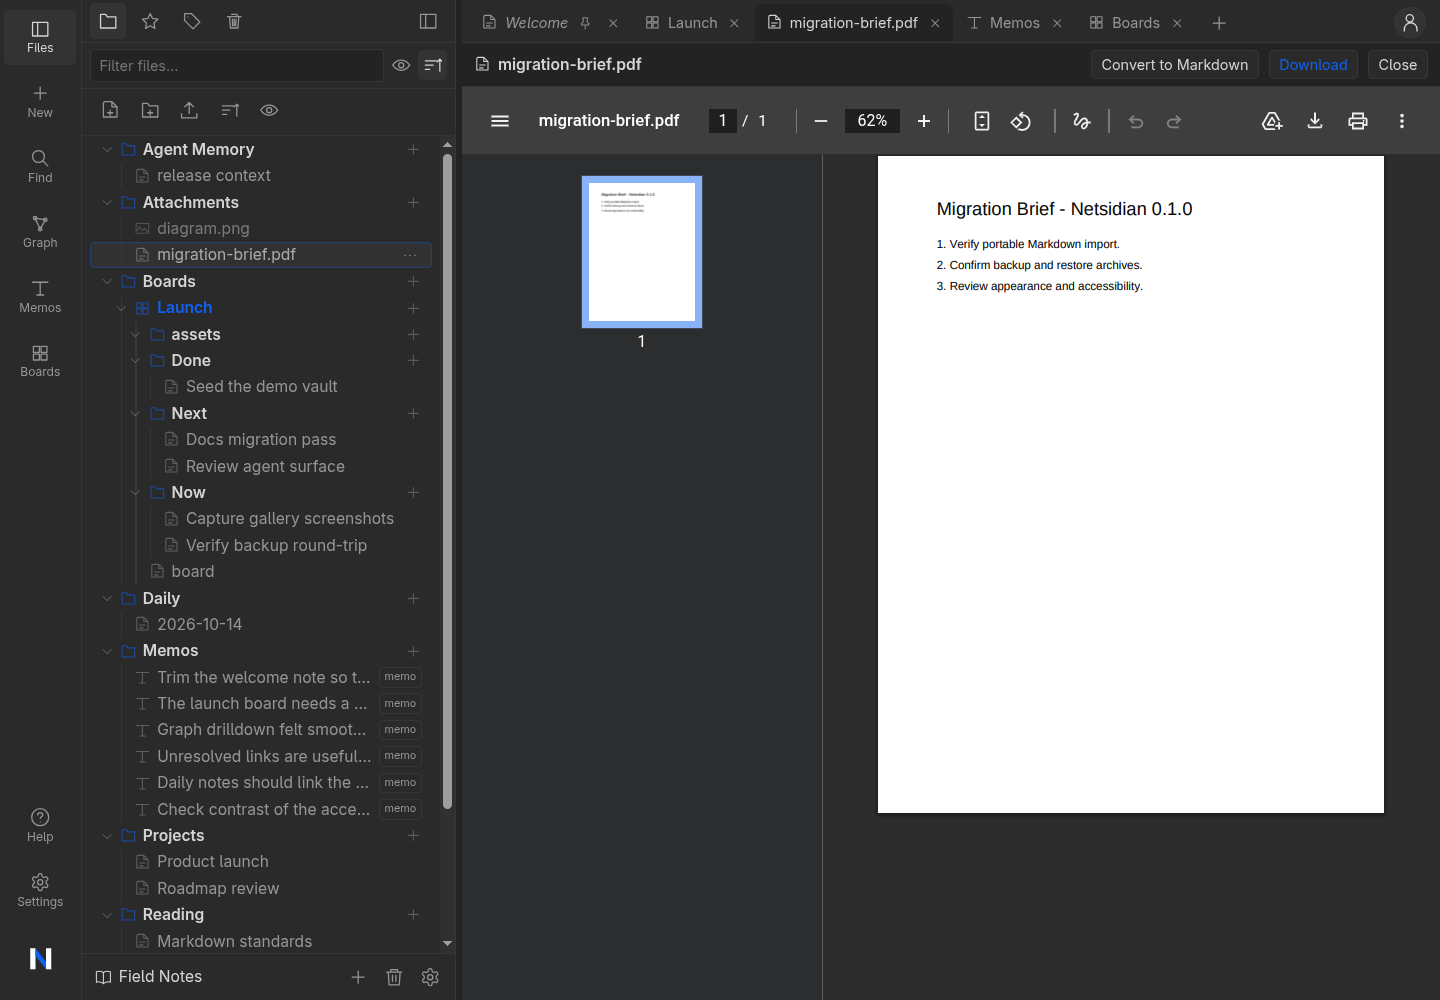
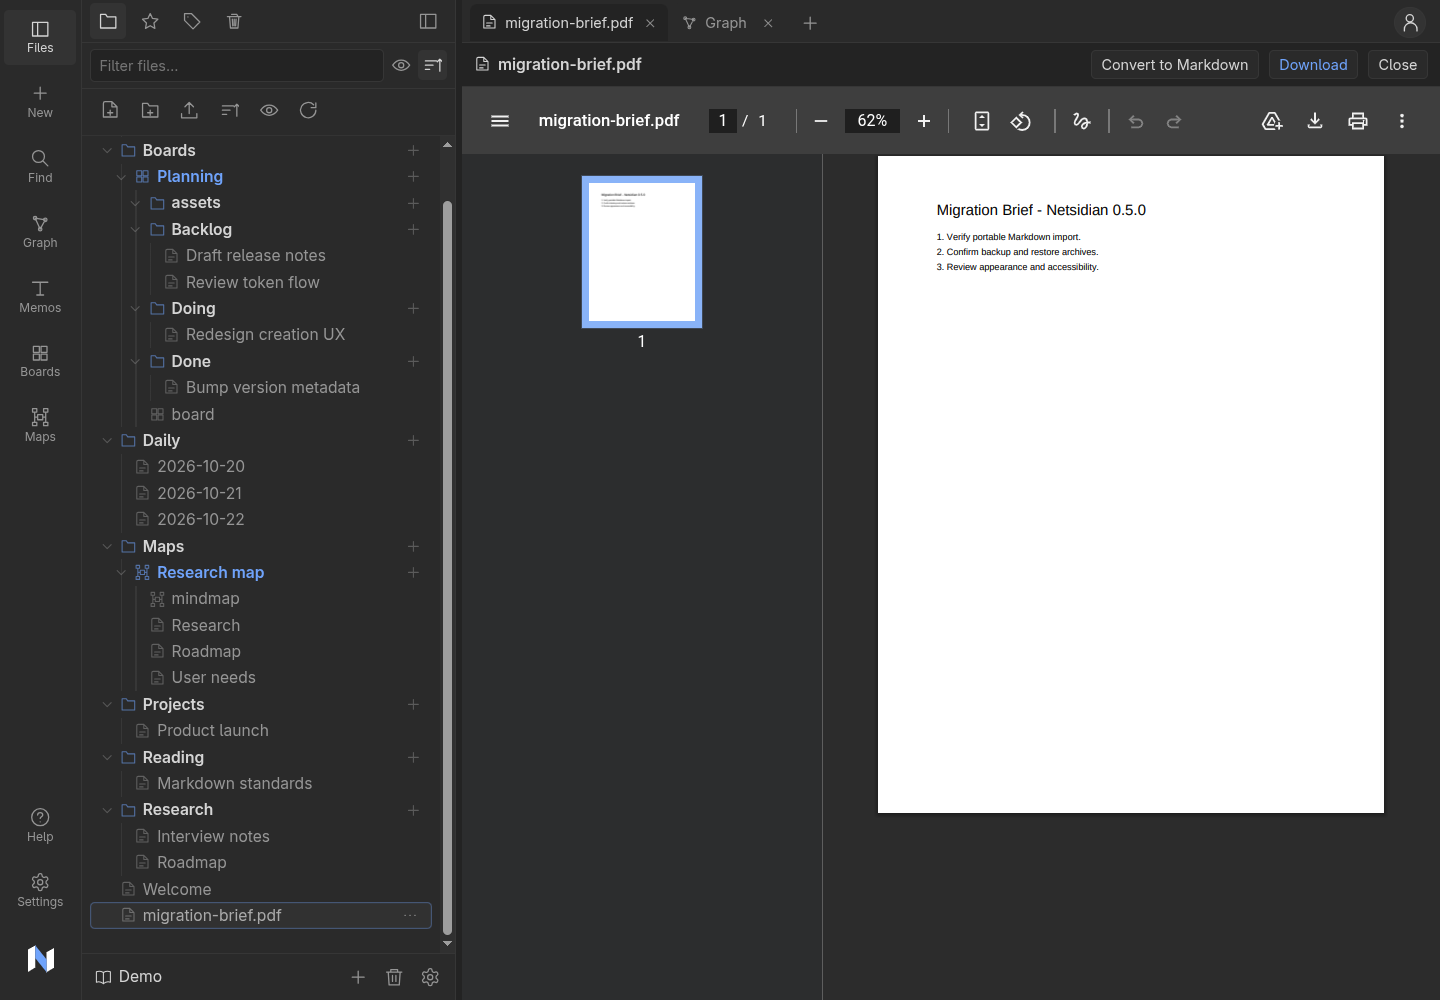
docs: refresh remaining 0.5.0 screenshots
Refresh knowledge-map, pdf-viewer, empty-vault and login-mcp captures from
the published 0.5.0 image, completing all 11 README screenshots. Update the
roadmap screenshot follow-up to reflect the full set.

diff --git a/docs/roadmap-state.md b/docs/roadmap-state.md
@@ -271,14 +271,17 @@ default) was bumped and custom release notes were prepared in
 
 ### Screenshot follow-up (0.5.0)
 
-- Refreshed README appearance, document reading mode, Memos, Kanban, mind map,
-  MCP/agent settings and file-explorer screenshots. Seven real 1440x1000 captures
-  from the published 0.5.0 image, with accurate captions and all 11 README image
-  links checked. The file-explorer capture now shows the new Refresh file list
-  button and the redesigned default accent (#70a4fb).
+- Refreshed all 11 README screenshots from the published 0.5.0 image: knowledge
+  map, appearance, document reading mode, Memos, Kanban, mind map, MCP/agent
+  settings, PDF viewer, file explorer, empty vault and the sign-in screen with
+  the MCP instructions panel. Eleven real 1440x1000 captures with accurate
+  captions and all 11 README image links checked. The captures show the
+  redesigned default accent (#70a4fb), the new Refresh file list button, the
+  linked memory references on the knowledge map, and the PDF Convert to Markdown
+  action.
 - Captures used isolated tmpfs test data in a temporary Docker container
   (netsidian-shots, ghcr.io/pentaqilo/netsidian:0.5.0, host port 3011) seeded via
   the REST API: one Demo vault with notes, a Kanban board, a mind map with a
-  linked note and connectors, three memos and one PNG attachment. The container
-  and its tmpfs data were removed after capture; no shared/review content was
-  touched and no real tokens were created.
+  linked note and connectors, memos, a knowledge map and one PDF attachment. The
+  container and its tmpfs data were removed after capture; no shared/review
+  content was touched and no real tokens were created.
